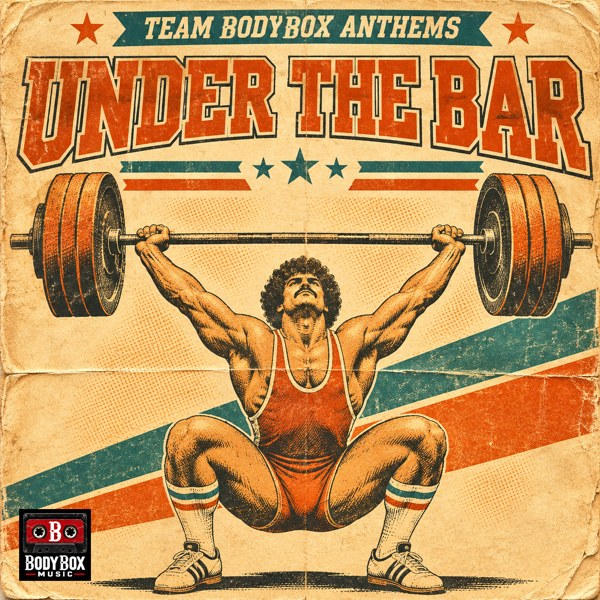
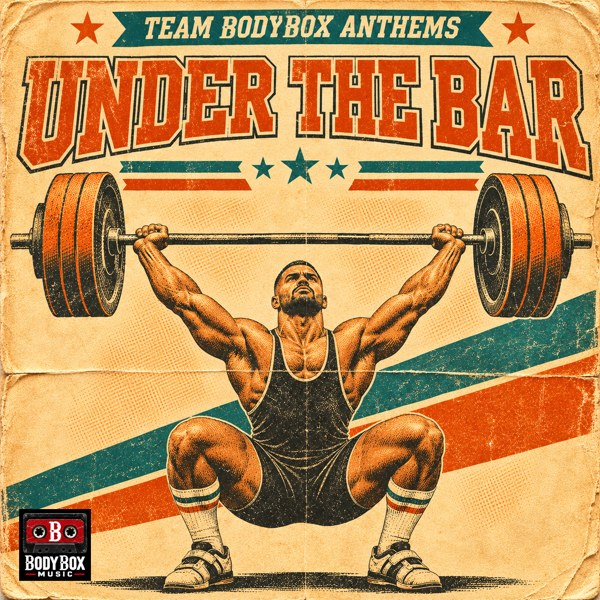
Music: Under the Bar final cover (vintage, new lifter)
Claude-Session: https://claude.ai/code/session_017vtcceZtinFcmhavL52LDN

diff --git a/music/index.html b/music/index.html
@@ -320,7 +320,7 @@ const GROUPS = [
  ]}
 ];
 const ALL = GROUPS.flatMap(g=>g.sets);
-const COVER = {"audio/keep-doing-great-things.mp3":"covers/kdgt.jpg","audio/stay-calm.mp3":"covers/stay-calm.jpg","audio/heavy-weights-light-plates.mp3":"covers/hwlp.jpg","audio/heavy-weights-light-plates-comp-anthem.mp4":"covers/hwlp-comp.jpg","audio/started-in-a-garage.mp4":"covers/garage.jpg","audio/team-bodybox.mp4":"covers/teambodybox.jpg","audio/run-mix-pt-1-warm-up.mp4":"covers/runmix-1.jpg?v=2","audio/run-mix-pt-2-settle-in.mp4":"covers/runmix-2.jpg?v=2","audio/s-h-i-i-t.mp4":"covers/shiit-1.jpg","audio/s-h-i-i-t-dont-stop-the-work.mp4":"covers/shiit-5.jpg","audio/tighten-up.mp4":"covers/tighten-up.jpg","audio/smooth-moves.mp4":"covers/smooth-moves.jpg","audio/rest-day.mp4":"covers/rest-day.jpg","audio/rest-day-take-it-easy.mp4":"covers/take-it-easy.jpg?v=2","audio/swing-it-body-box-class.mp4":"covers/swing-it.jpg","audio/i-pushed-the-heart-swing-set-remix.mp4":"covers/pushed-the-heart.jpg","audio/we-take-this-serious.mp4":"covers/we-take-this-serious.jpg?v=2","audio/new-era.mp4":"covers/new-era.jpg","audio/stronger-every-day.mp4":"covers/stronger-every-day.jpg","audio/feel-the-burn.mp4":"covers/feel-the-burn.jpg?v=2","audio/under-the-bar.mp4":"covers/under-the-bar.jpg?v=2"};
+const COVER = {"audio/keep-doing-great-things.mp3":"covers/kdgt.jpg","audio/stay-calm.mp3":"covers/stay-calm.jpg","audio/heavy-weights-light-plates.mp3":"covers/hwlp.jpg","audio/heavy-weights-light-plates-comp-anthem.mp4":"covers/hwlp-comp.jpg","audio/started-in-a-garage.mp4":"covers/garage.jpg","audio/team-bodybox.mp4":"covers/teambodybox.jpg","audio/run-mix-pt-1-warm-up.mp4":"covers/runmix-1.jpg?v=2","audio/run-mix-pt-2-settle-in.mp4":"covers/runmix-2.jpg?v=2","audio/s-h-i-i-t.mp4":"covers/shiit-1.jpg","audio/s-h-i-i-t-dont-stop-the-work.mp4":"covers/shiit-5.jpg","audio/tighten-up.mp4":"covers/tighten-up.jpg","audio/smooth-moves.mp4":"covers/smooth-moves.jpg","audio/rest-day.mp4":"covers/rest-day.jpg","audio/rest-day-take-it-easy.mp4":"covers/take-it-easy.jpg?v=2","audio/swing-it-body-box-class.mp4":"covers/swing-it.jpg","audio/i-pushed-the-heart-swing-set-remix.mp4":"covers/pushed-the-heart.jpg","audio/we-take-this-serious.mp4":"covers/we-take-this-serious.jpg?v=2","audio/new-era.mp4":"covers/new-era.jpg","audio/stronger-every-day.mp4":"covers/stronger-every-day.jpg","audio/feel-the-burn.mp4":"covers/feel-the-burn.jpg?v=2","audio/under-the-bar.mp4":"covers/under-the-bar.jpg?v=3"};
 const thumb = (t,id) => COVER[t[1]] ? '<div class="art th photo"><img src="'+COVER[t[1]]+'" alt=""></div>' : '<div class="art th" style="--g:'+grad(id)+'"><img src="tape.png" alt=""></div>';
 const HUE = {run:"#d62828,#5b0b0b",shiit:"#ff5f1f,#7a1300",toning:"#ff6fa8,#7d1d4f",rest:"#5b7cfa,#1b2560",grooves:"#ffb703,#7a3d00",anthems:"#d62828,#111",newera:"#b14cff,#2d0b5a",yoga:"#2ec4b6,#0a3d3a",hiit:"#f72585,#3a0b5a",originals:"#e63946,#2b2b2b",chill:"#4cc9f0,#16325c","hype-mix":"#ff1e1e,#3a0000",rnb:"#c77dff,#3c096c",hiphop:"#f4a261,#4a2511",rap:"#adb5bd,#141414",instrumental:"#06d6a0,#073b4c",satclass:"#ef476f,#3d0a1a","sunday-reset":"#90be6d,#1f3a14",search:"#8e8e93,#2c2c2e"};
 const esc = s => String(s).replace(/[&<>"']/g,c=>({"&":"&amp;","<":"&lt;",">":"&gt;",'"':"&quot;","'":"&#39;"}[c]));
